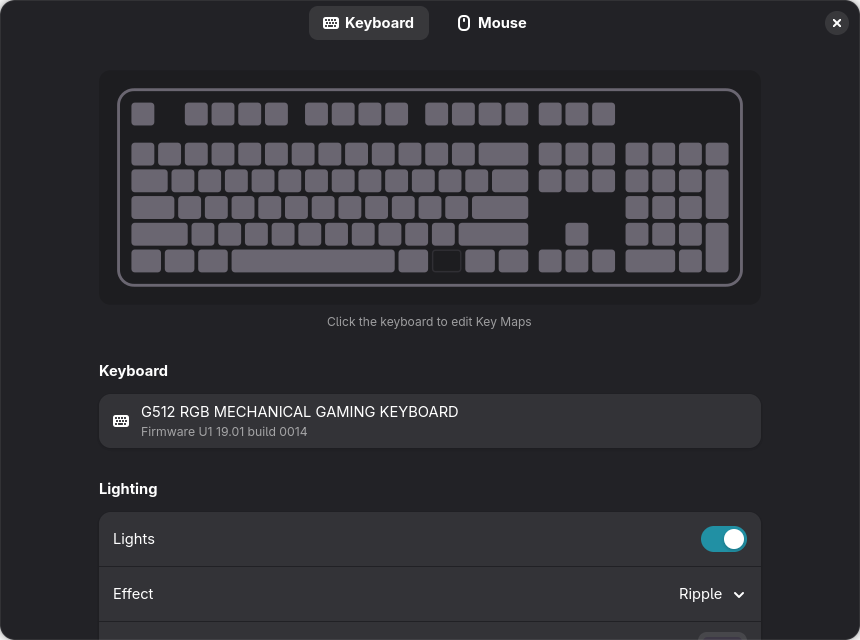
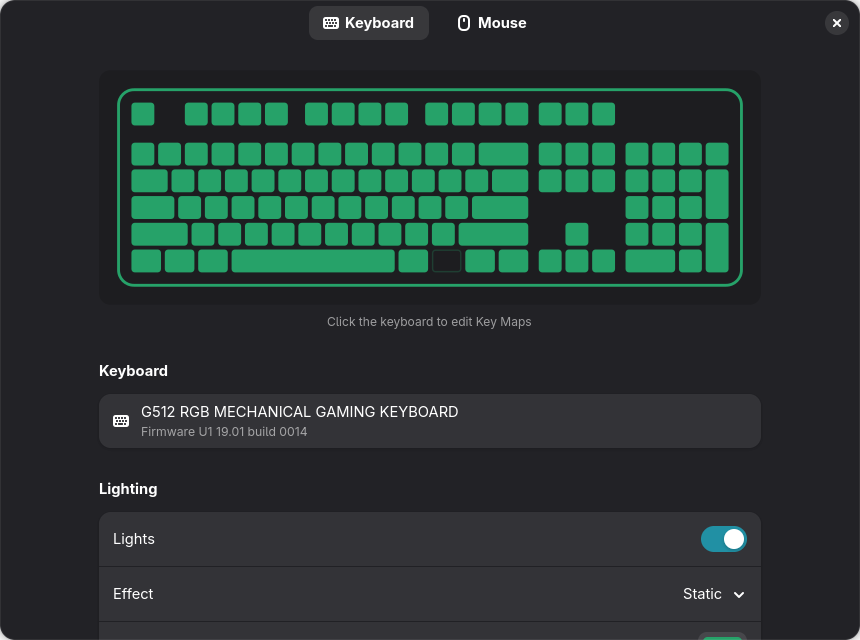
Document the app's views and drawings, and review them against the boards
The README describes the Keyboard and Mouse views, the two drawings and
what clicking them does, the colour lift, the effect motion and Reduce
Animation, and where the mouse art comes from.

The design review compares each board with the built screen. The clamp
and callout layout were fixed during the build. The rest is listed for
a decision, chiefly the group titles, which the boards shorten to
Device, Profile and Buttons.

Tasks 7.1, 7.2 and 7.3 of split-keyboard-mouse-views.

Changed region(s): [[0.1209, 0.125, 0.8767, 0.4688], [0.786, 0.9062, 0.8465, 0.9375], [0.8163, 0.9688, 0.8465, 1.0]]

diff --git a/README.md b/README.md
@@ -73,6 +73,20 @@ It is a GNOME Shell extension for GNOME 50.
 
 The tile hides itself while `g512d` isn't running, and never starts it. After a GNOME upgrade beyond version 50, the Shell turns the tile off until the extension is updated.
 
+## The app
+
+The app has two views, **Keyboard** and **Mouse**, switched at the top of the window, or at the bottom when the window is narrow. The Mouse view appears when the service supports a G502 HERO. Each view shows its own device's state: if the keyboard is unplugged, the Keyboard view says so and the Mouse view keeps working, and the other way round.
+
+Each view opens with a drawing of its device in its current lighting:
+- **The keyboard** shows lit keys as tiles in their colour and unlit keys as outlines: the effect's colour, or the key map being shown. Click it, or press Enter on it, to open **Key Maps**; **Edit Key Maps…** below does the same.
+- **The mouse** is drawn from above and from the side, in its lighting colour, with the G logo and DPI LEDs lit. A number marks each programmable button, and the list beside the drawing (below it in a narrow window) shows what each one does in the active profile. Click a button on the drawing, or its entry in the list, to change it. Left click is shown as fixed.
+
+Colours too dark to see against the drawing's background are lightened, keeping their hue. With the lights off, the drawings are dim outlines.
+
+While GNOME's animations are on, the drawings play the current effect: Ripple's ring, Wave's band, Breathe's fade and Cycle's colour, at the effect's speed. Pointing at a mouse button fills it and sends a ring out, and applying a change pulses it once. With **Reduce Animation** on (Settings → Accessibility), the drawings stay still and nothing pulses.
+
+The mouse drawings are the project's own ink drawings of the G502 HERO, in `g512-control/data/g502-top-ink.svg` and `g502-side-ink.svg`. The app reads their paths at start-up and colours them itself.
+
 ## Lights on and off
 
 **Lights** in the app, or clicking the tile, turns the keyboard dark without forgetting anything. Turning the lights back on shows your effect again, or the Gaming layout if a game is running.
@@ -83,7 +97,7 @@ The tile hides itself while `g512d` isn't running, and never starts it. After a 
 
 ## Mouse
 
-The **Mouse** section of the app appears when the service supports a G502 HERO. With **Match Keyboard** on, which is the default, the logo and DPI strip follow the keyboard's lighting and brightness. The mouse has only Off, Static, Breathe and Cycle, so it shows the nearest one:
+The app's **Mouse** view appears when the service supports a G502 HERO. With **Match Keyboard** on, which is the default, the logo and DPI strip follow the keyboard's lighting and brightness. The mouse has only Off, Static, Breathe and Cycle, so it shows the nearest one:
 - **Wave** becomes Cycle at the same speed.
 - **Ripple** becomes Static in Ripple's colour.
 - **The Custom map, or the Gaming map during a game,** becomes Static in the colour that map gives W, or Off if W is off.
@@ -111,7 +125,7 @@ Only the report rate, DPI steps and default step are changed here. Button assign
 
 ### Buttons
 
-The **Mouse Buttons** section lists what each button does in the active profile: Right Click, Wheel Click, Back and Forward (the thumb buttons), Sniper, DPI Down, DPI Up, G9, and Wheel Tilt Right and Left. **Change** opens a dialog with:
+The **Mouse Buttons** section lists what each button does in the active profile: Right Click, Wheel Click, Back and Forward (the thumb buttons), Sniper, DPI Down, DPI Up, G9, and Wheel Tilt Right and Left. The same list sits beside the mouse drawing, numbered to match it. **Change**, a button in that list, or the button itself on the drawing opens a dialog with:
 - **Mouse Button:** left, right or middle click, back or forward;
 - **Keyboard Shortcut:** choose **Set Shortcut**, then press the keys, for example Ctrl+C. Esc cancels. Letters, digits, F1 to F12, Enter, Tab, Space, Backspace, punctuation, the arrows and Insert, Delete, Home, End, Page Up and Page Down work; the dialog says when a key can't be used;
 - **Media Key:** play/pause, next and previous track, volume up and down, mute;
@@ -124,7 +138,7 @@ If G9 no longer switches profiles, the app's **Profile** row still does.
 
 ## Key maps
 
-**Key Maps** in the app opens a drawing of the keyboard. Choose **Custom** or **Gaming** at the top to pick which map you are editing.
+Clicking the keyboard drawing, or **Edit Key Maps…**, opens **Key Maps**, a drawing of the keyboard to edit. Choose **Custom** or **Gaming** at the top to pick which map you are editing.
 
 - Click keys to select them, or drag across them. The buttons above the keyboard select groups: WASD, the arrows, the F-keys, the number row, the numpad or the modifiers.
 - Pick a colour, then **Paint Selected**. **Turn Off** leaves the selected keys dark.

diff --git a/openspec/changes/split-keyboard-mouse-views/evidence/design-review.md b/openspec/changes/split-keyboard-mouse-views/evidence/design-review.md
@@ -1,0 +1,51 @@
+# Design review: built screens and the Penpot boards (task 7.3)
+
+**Date:** 2026-10-28.
+
+**Method:** the board exports in `design/` were compared with app screenshots. The screenshots are from the worktree build running against the fake service, at 860×640 and 360×800 (`run_app_fake.sh` with `SHOT`, `VIEW` and `SIZE`). The penpot MCP server wasn't connected this session, so the review used the exports, which are the approved versions.
+
+**Side-by-side sheets:** board on the left, app on the right.
+- `app/compare-keyboard.png`
+- `app/compare-narrow.png`: keyboard board, keyboard app, mouse board, mouse app.
+- `app/compare-states.png`: rows for keyboard missing, mouse missing and mouse no access.
+
+## Fixed during the build
+
+| Board | Was | Now |
+|---|---|---|
+| All screens | `AdwPreferencesPage` clamped every view to 600 px, so the keyboard card was about 570 px wide and the mouse callouts didn't fit beside the drawing. | Each view is clamped to its board width: 694 px for the keyboard and 760 px for the mouse (design.md D1). |
+| `05-after-mouse` | The hint sat under the drawing, and the callouts were too tall to sit beside it. | The hint sits under the side view, and the callouts are compact chips in two columns (1–6 and 7–11) beside the drawing, as on the board. |
+| `05-narrow-mouse` | — | Both views on top, the callouts in pairs below, and no hint, as on the board. |
+
+## Matches
+
+- **`05-after-keyboard` / `app/keyboard-view.png` (Static green):** the card, the case, the key tiles, the caption, and the Device, Lighting and Games groups.
+- **`05-after-mouse` / `app/mouse-view.png`:**
+  - green ink, with the lit logo and DPI LEDs and the glow;
+  - badges 1–11 on the same buttons;
+  - Left Click's dashed, insensitive chip;
+  - the switcher in the header.
+- **`05-narrow-keyboard`, `05-narrow-mouse`:** the bottom switcher bar, the window title, and the illustration scaled to the column.
+- **`05-keyboard-missing`, `05-mouse-missing`, `05-mouse-no-access`:** the status page sits in the device's own view, the other view keeps working, and the titles match. The no-access command writes both rule lines.
+- **`04-motion`:** see `motion.md`. Ripple, Wave and Breathe follow the preview's timings, which `motion.rs`'s tests check against `render.py`.
+
+## Differences left in place, for the user to decide
+
+1. **Group titles.** The boards title the groups by what they are: Device, Lighting, Profile, Buttons. The app keeps its older titles: "Keyboard" and "Mouse" for the device groups, plus "Mouse Profile" and "Mouse Buttons". Now that each view is named for its device, the prefix repeats the view's name.
+   - Renaming is a one-line change per group.
+   - But the main spec names a "Mouse Buttons group" (from add-mouse-buttons), and the README uses the same names.
+   - **Recommendation:** rename to match the boards, with a spec delta for "Mouse Buttons". Not done here without the user's say.
+2. **The mouse drawing is a little smaller** than on the board (about 440 px wide against 480 px), because the card's 16 px padding comes out of the same 760 px. It's not worth shrinking the callouts to win it back.
+3. **The narrow keyboard caption** says "Click the keyboard to edit Key Maps" where the narrow board says "Tap". It's a desktop app, so it stays "Click", and the wide and narrow captions are the same.
+4. **The narrow board leaves out the subtitle** of the Edit Key Maps row. The app keeps it at every width, because it explains what the page does.
+5. **Status page icons.** The boards drew outline icons: a keyboard, and a mouse for both "not connected" and "no access". The app uses GNOME's symbolic icons:
+   - `input-keyboard-symbolic` and `input-mouse-symbolic` for "not connected";
+   - `dialog-password-symbolic` (a key) for "no access", which says "permission" more plainly.
+   These follow the HIG and the user's icon theme.
+6. **Status page wording.** The boards say "The Mouse tab keeps working"; the app says "view", to match the README and the switcher's accessible names.
+7. **The no-access command shows as selected** when the page opens. The label is selectable, and GTK selects its text when it gets the first focus. That lets a keyboard user press Ctrl+C straight away. This was already the case before this change (the same label is on main).
+8. **The command block** shows one rule per line, at full width, where the board wraps it narrower. The text is the same.
+
+## Open checks (task 7.4)
+
+`motion.md` lists them: G9's hover and confirm pulse need a real pointer and Apply, and the animations-off check uses the desktop's setting.

diff --git a/openspec/changes/split-keyboard-mouse-views/evidence/workspace-checks.md b/openspec/changes/split-keyboard-mouse-views/evidence/workspace-checks.md
@@ -1,0 +1,25 @@
+# Docs and workspace checks (tasks 7.1, 7.2)
+
+Checked on 2026-10-28, on commit `acaad89` plus the README and review edits.
+
+## 7.1 README
+
+- **New section, "The app":**
+  - the two views, and each view's own device state;
+  - the two drawings: click the keyboard for Key Maps; click a mouse button or its callout to change it;
+  - the colour lift;
+  - motion, and Reduce Animation;
+  - where the mouse art comes from (`g512-control/data/*.svg`).
+- **Updated:** the Mouse, Buttons and Key Maps sections now refer to the view, the callouts and the drawing.
+- **Render check:** Gitea's Markdown API (`POST /api/v1/markdown/raw`) rendered the README with all nine `##` sections, 16 code blocks and 43 list items. "The app" section rendered with its list and bold labels.
+- **udev:** the README's `sudo install … 70-g512-control.rules` and the app's "No access" command (`udev::install_command`) install the same two rule lines (keyboard `c33c` and mouse `c08b`). Both then reload udev and re-trigger hidraw. The unit test `installs_every_rule_line` checks the app's side.
+
+## 7.2 Workspace checks (GNOME 50 SDK, `target/sdk.sh`)
+
+| Check | Result |
+|---|---|
+| `cargo clippy --workspace --all-targets -- -D warnings` | clean |
+| `cargo test --workspace` | 44 (g512-control) + 51 + 91 + 0 passed, 2 ignored (hardware) |
+| `openspec validate split-keyboard-mouse-views --strict` | valid |
+| `openspec validate --specs --strict` | 4 passed, 0 failed (one info note about a long requirement in quick-settings-tile) |
+| Flatpak build (`org.flatpak.Builder`, the repo's manifest, into `target/fp-build`, not installed) | exit 0, no warnings. The binary embeds both SVGs (`id="DPI_LEDs"` appears twice). |

diff --git a/openspec/changes/split-keyboard-mouse-views/tasks.md b/openspec/changes/split-keyboard-mouse-views/tasks.md
@@ -62,9 +62,9 @@
 
 ## 7. Docs and checks
 
-- [ ] 7.1 README: the two views, the illustrations, motion and Reduce Animation, and the art's source. Verify the README renders, and that its udev instructions match the app's command.
-- [ ] 7.2 Workspace checks: clippy `-D warnings` and tests in the GNOME SDK, `openspec validate --strict` for the change and specs, and the Flatpak build with the SVGs in place. Verify that all pass.
-- [ ] 7.3 Design review: compare the built screens with the Penpot boards (`penpot-design-to-code-review`), and list or fix the differences. Verify with a written comparison in `evidence/design-review.md`.
+- [x] 7.1 README: the two views, the illustrations, motion and Reduce Animation, and the art's source. Verify the README renders, and that its udev instructions match the app's command.
+- [x] 7.2 Workspace checks: clippy `-D warnings` and tests in the GNOME SDK, `openspec validate --strict` for the change and specs, and the Flatpak build with the SVGs in place. Verify that all pass.
+- [x] 7.3 Design review: compare the built screens with the Penpot boards (`penpot-design-to-code-review`), and list or fix the differences. Verify with a written comparison in `evidence/design-review.md`.
 - [ ] 7.4 Hands-on pass with the user:
   - switch views;
   - narrow the window;
